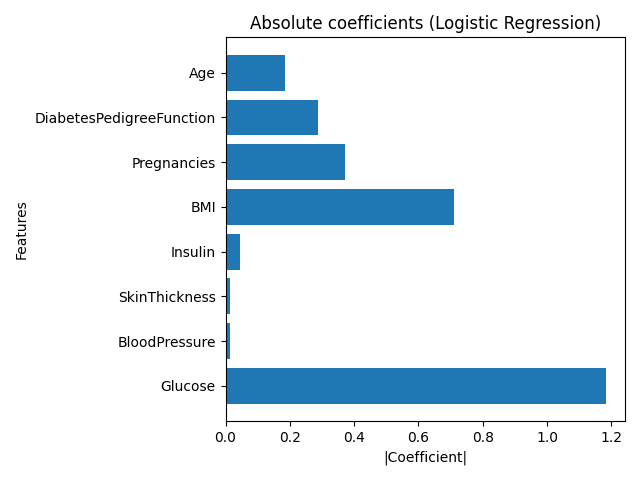
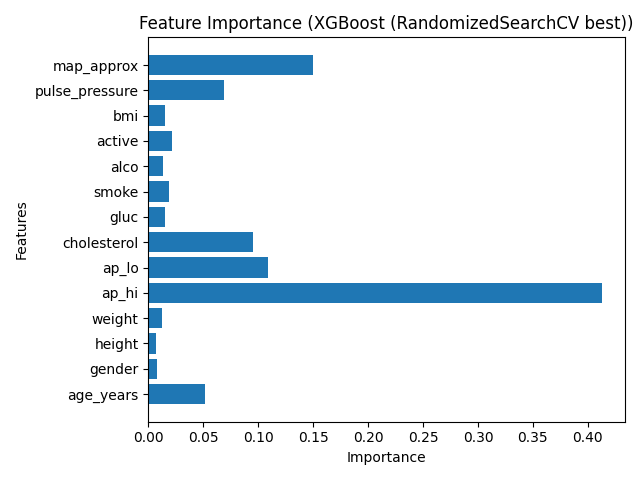
Improve cardio training: engineered features, HGB search, XGB HPO, OOF threshold
Add BMI, pulse pressure, and MAP; HistGradientBoosting + expanded XGBoost
random search; champion by CV ROC-AUC; save threshold JSON sidecar; ignore
generated threshold file.

Made-with: Cursor

diff --git a/model.py b/model.py
@@ -1,6 +1,7 @@
 # =========================
 # 1. IMPORTS
 # =========================
+import json
 import os
 import warnings
 from pathlib import Path
@@ -11,7 +12,9 @@ matplotlib.use(os.environ.get("MPLBACKEND", "Agg"))
 import matplotlib.pyplot as plt
 import numpy as np
 import pandas as pd
+from sklearn.base import clone
 from sklearn.compose import ColumnTransformer
+from sklearn.ensemble import HistGradientBoostingClassifier
 from sklearn.impute import SimpleImputer
 from sklearn.linear_model import LogisticRegression
 from sklearn.metrics import (
@@ -24,6 +27,7 @@ from sklearn.metrics import (
 from sklearn.model_selection import (
     RandomizedSearchCV,
     StratifiedKFold,
+    cross_val_predict,
     cross_validate,
     train_test_split,
 )
@@ -36,10 +40,11 @@ warnings.filterwarnings("ignore", category=UserWarning)
 _ROOT = Path(__file__).resolve().parent
 _DATA_CSV = _ROOT / "sources" / "cardio_train.csv"
 _MODEL_PATH = _ROOT / "cardiovascular_model.pkl"
+_THRESHOLD_PATH = _ROOT / "cardiovascular_model.threshold.json"
 _PLOT_PATH = _ROOT / "feature_importance.png"
 
-# Feature column order after engineering (age -> age_years)
-_FEATURE_COLUMNS: list[str] = [
+# Raw + engineered features (derived columns added in _clean_cardio_xy after row filtering)
+_BASE_FEATURES: list[str] = [
     "age_years",
     "gender",
     "height",
@@ -52,17 +57,18 @@ _FEATURE_COLUMNS: list[str] = [
     "alco",
     "active",
 ]
+_DERIVED_FEATURES: list[str] = ["bmi", "pulse_pressure", "map_approx"]
+_FEATURE_COLUMNS: list[str] = _BASE_FEATURES + _DERIVED_FEATURES
 
 
 def _clean_cardio_xy(df: pd.DataFrame) -> tuple[pd.DataFrame, pd.Series]:
-    """Load target and features; engineer age_years; drop inconsistent / extreme rows."""
+    """Load target and features; engineer age_years and derived vitals; filter bad rows."""
     y = df["cardio"].astype(int)
     X = df.drop(columns=["cardio"]).copy()
     X["age_years"] = X["age"].astype(float) / 365.25
     X = X.drop(columns=["age"])
-    X = X[_FEATURE_COLUMNS]
+    X = X[_BASE_FEATURES]
 
-    # Systolic must exceed diastolic; drop impossible vitals (common cardio_train cleanup)
     ok = (
         (X["ap_hi"] > X["ap_lo"])
         & (X["ap_hi"] >= 80)
@@ -76,6 +82,13 @@ def _clean_cardio_xy(df: pd.DataFrame) -> tuple[pd.DataFrame, pd.Series]:
     )
     X = X.loc[ok].reset_index(drop=True)
     y = y.loc[ok].reset_index(drop=True)
+
+    h_m = X["height"].astype(float) / 100.0
+    X["bmi"] = X["weight"].astype(float) / (h_m * h_m)
+    X["pulse_pressure"] = X["ap_hi"].astype(float) - X["ap_lo"].astype(float)
+    X["map_approx"] = (X["ap_hi"].astype(float) + 2.0 * X["ap_lo"].astype(float)) / 3.0
+
+    X = X[_FEATURE_COLUMNS]
     return X, y
 
 
@@ -93,6 +106,26 @@ def _build_preprocess(X: pd.DataFrame) -> ColumnTransformer:
         remainder="drop",
         verbose_feature_names_out=False,
     )
+
+
+def _oof_positive_proba(
+    estimator: Pipeline, X: pd.DataFrame, y: pd.Series, cv: StratifiedKFold
+) -> np.ndarray:
+    """Out-of-fold positive-class probabilities for threshold tuning (no test leakage)."""
+    return cross_val_predict(
+        clone(estimator), X, y, cv=cv, method="predict_proba", n_jobs=-1
+    )[:, 1]
+
+
+def _best_threshold_accuracy(y_true: np.ndarray, proba: np.ndarray) -> tuple[float, float]:
+    """Threshold in (0,1) maximizing accuracy on OOF predictions."""
+    best_t, best_acc = 0.5, 0.0
+    for t in np.linspace(0.01, 0.99, 99):
+        pred = (proba >= t).astype(int)
+        acc = accuracy_score(y_true, pred)
+        if acc > best_acc:
+            best_acc, best_t = acc, t
+    return best_t, best_acc
 
 
 def main() -> None:
@@ -170,7 +203,7 @@ def main() -> None:
     lr_cv_auc = lr_cv["test_roc_auc"].mean()
 
     # =========================
-    # 5. XGBOOST: RANDOM SEARCH + CV
+    # 5. XGBOOST: RANDOM SEARCH + CV (hist, wider search)
     # =========================
     preprocess_xgb = _build_preprocess(X)
     xgb_pipe = Pipeline(
@@ -179,9 +212,11 @@ def main() -> None:
             (
                 "clf",
                 XGBClassifier(
-                    n_estimators=100,
-                    max_depth=4,
+                    n_estimators=300,
+                    max_depth=5,
                     learning_rate=0.1,
+                    tree_method="hist",
+                    max_bin=256,
                     eval_metric="logloss",
                     random_state=42,
                     n_jobs=-1,
@@ -190,21 +225,24 @@ def main() -> None:
         ]
     )
 
-    param_distributions = {
+    xgb_param_distributions = {
         "clf__max_depth": [3, 4, 5, 6, 8],
-        "clf__n_estimators": [50, 100, 200, 300],
-        "clf__learning_rate": [0.01, 0.05, 0.1, 0.15, 0.2],
-        "clf__min_child_weight": [1, 2, 3, 5],
+        "clf__n_estimators": [100, 200, 300, 500],
+        "clf__learning_rate": [0.01, 0.03, 0.05, 0.1, 0.15, 0.2],
+        "clf__min_child_weight": [1, 2, 3, 5, 7],
         "clf__subsample": [0.7, 0.8, 0.9, 1.0],
         "clf__colsample_bytree": [0.7, 0.8, 0.9, 1.0],
         "clf__reg_lambda": [0.5, 1.0, 2.0, 5.0],
+        "clf__reg_alpha": [0.0, 0.01, 0.1, 0.5, 1.0],
+        "clf__gamma": [0.0, 0.05, 0.1, 0.2],
+        "clf__max_bin": [128, 256, 512],
     }
 
     print("\n--- XGBoost (RandomizedSearchCV, 5-fold, roc_auc) ---")
     xgb_search = RandomizedSearchCV(
         estimator=xgb_pipe,
-        param_distributions=param_distributions,
-        n_iter=30,
+        param_distributions=xgb_param_distributions,
+        n_iter=80,
         cv=cv,
         scoring="roc_auc",
         random_state=42,
@@ -228,43 +266,136 @@ def main() -> None:
     xgb_cv_auc = xgb_search.best_score_
 
     # =========================
-    # 6. SAVE BEST PIPELINE (by CV ROC-AUC) + FEATURE IMPORTANCE
+    # 6. HIST GRADIENT BOOSTING: RANDOM SEARCH + CV
+    # =========================
+    preprocess_hgb = _build_preprocess(X)
+    hgb_pipe = Pipeline(
+        [
+            ("pre", preprocess_hgb),
+            (
+                "clf",
+                HistGradientBoostingClassifier(
+                    random_state=42,
+                    early_stopping=True,
+                    validation_fraction=0.12,
+                    n_iter_no_change=20,
+                ),
+            ),
+        ]
+    )
+
+    hgb_param_distributions = {
+        "clf__max_depth": [None, 3, 5, 7, 9],
+        "clf__learning_rate": [0.01, 0.05, 0.08, 0.1, 0.15, 0.2],
+        "clf__max_iter": [150, 250, 400, 600],
+        "clf__min_samples_leaf": [10, 20, 40, 80, 120],
+        "clf__l2_regularization": [0.0, 1e-4, 1e-2, 0.1, 1.0],
+        "clf__max_leaf_nodes": [15, 31, 63, 127],
+    }
+
+    print("\n--- HistGradientBoosting (RandomizedSearchCV, 5-fold, roc_auc) ---")
+    hgb_search = RandomizedSearchCV(
+        estimator=hgb_pipe,
+        param_distributions=hgb_param_distributions,
+        n_iter=60,
+        cv=cv,
+        scoring="roc_auc",
+        random_state=43,
+        n_jobs=-1,
+        refit=True,
+    )
+    hgb_search.fit(X_train, y_train)
+    print(f"  Best CV ROC-AUC: {hgb_search.best_score_:.4f}")
+    print(f"  Best params: {hgb_search.best_params_}")
+
+    best_hgb = hgb_search.best_estimator_
+    y_pred_hgb = best_hgb.predict(X_test)
+    y_proba_hgb = best_hgb.predict_proba(X_test)[:, 1]
+
+    print("\n--- HistGradientBoosting (holdout) ---")
+    print("  ROC-AUC:", roc_auc_score(y_test, y_proba_hgb))
+    print("  Accuracy:", accuracy_score(y_test, y_pred_hgb))
+    print("  F1 (class 1):", f1_score(y_test, y_pred_hgb, pos_label=1))
+    print(classification_report(y_test, y_pred_hgb))
+
+    hgb_cv_auc = hgb_search.best_score_
+
+    # =========================
+    # 7. CHAMPION BY CV ROC-AUC + OOF THRESHOLD FOR ACCURACY
+    # =========================
+    # Compare three models by mean CV ROC-AUC (primary metric per plan).
+    candidates: list[tuple[str, float, Pipeline]] = [
+        ("LogisticRegression", lr_cv_auc, lr_pipe),
+        ("XGBoost (RandomizedSearchCV best)", xgb_cv_auc, best_xgb),
+        ("HistGradientBoosting (RandomizedSearchCV best)", hgb_cv_auc, best_hgb),
+    ]
+    champion_name, _, champion = max(candidates, key=lambda t: t[1])
+
+    print("\n--- Champion (highest mean CV ROC-AUC) ---")
+    print(f"  {champion_name}  (CV ROC-AUC={max(lr_cv_auc, xgb_cv_auc, hgb_cv_auc):.4f})")
+
+    oof_proba = _oof_positive_proba(champion, X_train, y_train, cv)
+    threshold, oof_acc = _best_threshold_accuracy(y_train.to_numpy(), oof_proba)
+    print(f"\n  OOF accuracy-optimal threshold: {threshold:.4f} (OOF accuracy={oof_acc:.4f})")
+
+    y_proba_test = champion.predict_proba(X_test)[:, 1]
+    y_pred_default = champion.predict(X_test)
+    y_pred_thr = (y_proba_test >= threshold).astype(int)
+
+    print("\n--- Champion holdout (default 0.5 threshold) ---")
+    print("  ROC-AUC:", roc_auc_score(y_test, y_proba_test))
+    print("  Accuracy:", accuracy_score(y_test, y_pred_default))
+    print("  F1 (class 1):", f1_score(y_test, y_pred_default, pos_label=1))
+
+    print("\n--- Champion holdout (OOF-tuned threshold, evaluated once on test) ---")
+    print("  Accuracy:", accuracy_score(y_test, y_pred_thr))
+    print("  F1 (class 1):", f1_score(y_test, y_pred_thr, pos_label=1))
+    print(classification_report(y_test, y_pred_thr))
+
+    # =========================
+    # 8. SAVE PIPELINE + THRESHOLD SIDEcar + FEATURE IMPORTANCE
     # =========================
     import joblib
 
     feat_names = _feature_names_in_order(X)
 
-    if xgb_cv_auc >= lr_cv_auc:
-        champion = best_xgb
-        champion_name = "XGBoost (RandomizedSearchCV best)"
-        importances = champion.named_steps["clf"].feature_importances_
+    clf = champion.named_steps["clf"]
+    if hasattr(clf, "feature_importances_"):
+        importances = clf.feature_importances_
         plt.figure()
         plt.barh(feat_names, importances)
-        plt.title("Feature Importance (XGBoost)")
+        plt.title(f"Feature Importance ({champion_name})")
         plt.xlabel("Importance")
         plt.ylabel("Features")
         plt.tight_layout()
         plt.savefig(_PLOT_PATH)
         plt.close()
-        print(f"\nChampion (CV ROC-AUC): {champion_name}")
-        print(f"Feature importance plot saved to {_PLOT_PATH}")
-    else:
-        champion = lr_pipe
-        champion_name = "LogisticRegression"
-        coef = champion.named_steps["clf"].coef_.ravel()
+        print(f"\nFeature importance plot saved to {_PLOT_PATH}")
+    elif hasattr(clf, "coef_"):
+        coef = clf.coef_.ravel()
         plt.figure()
         plt.barh(feat_names, np.abs(coef))
-        plt.title("Absolute coefficients (Logistic Regression)")
+        plt.title(f"Absolute coefficients ({champion_name})")
         plt.xlabel("|Coefficient|")
         plt.ylabel("Features")
         plt.tight_layout()
         plt.savefig(_PLOT_PATH)
         plt.close()
-        print(f"\nChampion (CV ROC-AUC): {champion_name}")
-        print(f"Coefficient magnitude plot saved to {_PLOT_PATH}")
+        print(f"\nCoefficient plot saved to {_PLOT_PATH}")
 
     joblib.dump(champion, _MODEL_PATH)
     print(f"\nSaved pipeline ({champion_name}) to {_MODEL_PATH}")
+
+    meta = {
+        "champion": champion_name,
+        "positive_class_threshold": threshold,
+        "oof_accuracy_at_threshold": oof_acc,
+        "cv_roc_auc_logistic_regression": lr_cv_auc,
+        "cv_roc_auc_xgboost": xgb_cv_auc,
+        "cv_roc_auc_hist_gradient_boosting": hgb_cv_auc,
+    }
+    _THRESHOLD_PATH.write_text(json.dumps(meta, indent=2), encoding="utf-8")
+    print(f"Saved threshold metadata to {_THRESHOLD_PATH}")
 
 
 if __name__ == "__main__":
